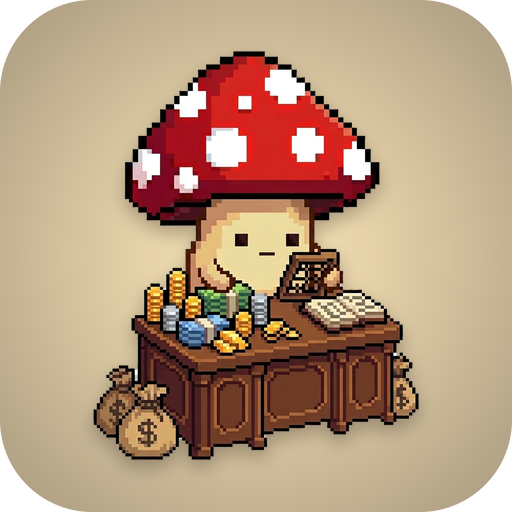
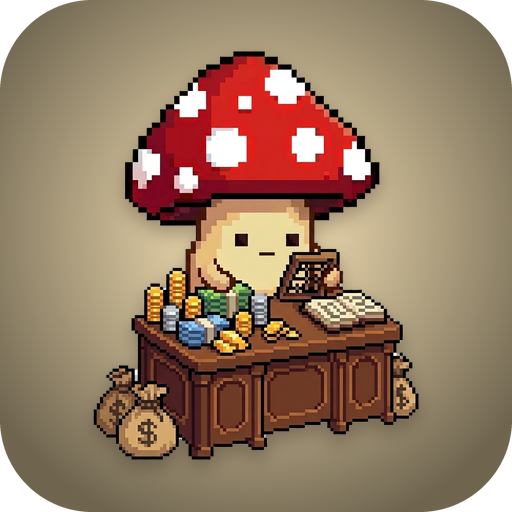
Ícono: degradado más marcado, aún más claro que el original

diff --git a/index.html b/index.html
@@ -557,8 +557,11 @@
   // Bumpear en cada push, sin excepción — no importa el tamaño del cambio
   // (mismo criterio que lista-super, ver memoria "changelog discipline").
   // Entrada más nueva primero.
-  const APP_VERSION = '1.13.7';
+  const APP_VERSION = '1.13.8';
   const CHANGELOG = [
+    { version: '1.13.8', fecha: '2026-10-24', notas: [
+      'Ajuste del ícono de BonaCuentas: vuelve el degradado marcado de claro a oscuro, pero con colores más claros que antes.',
+    ] },
     { version: '1.13.7', fecha: '2026-10-24', notas: [
       'El fondo del ícono de BonaCuentas es más claro: se veía demasiado oscuro.',
     ] },

diff --git a/sw.js b/sw.js
@@ -1,4 +1,4 @@
-const CACHE = "bonacuentas-v41";
+const CACHE = "bonacuentas-v42";
 const ASSETS = ["./", "./index.html", "./manifest.json", "./config.js", "./logic.js", "./charts.js", "./sync.js"];
 
 self.addEventListener("install", (event) => {
